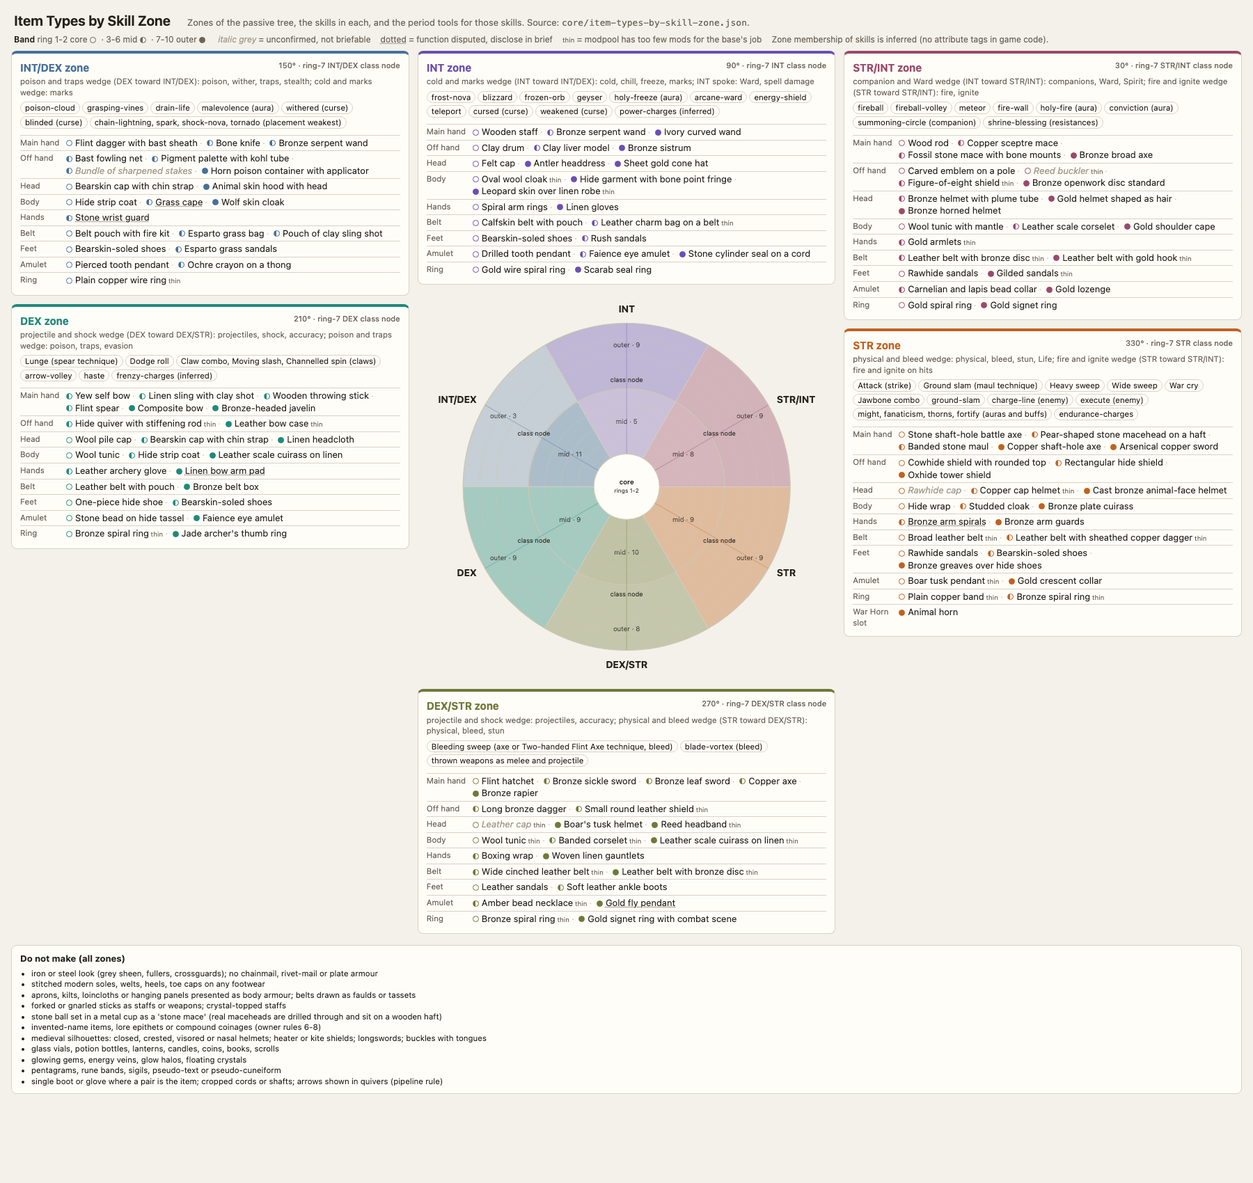
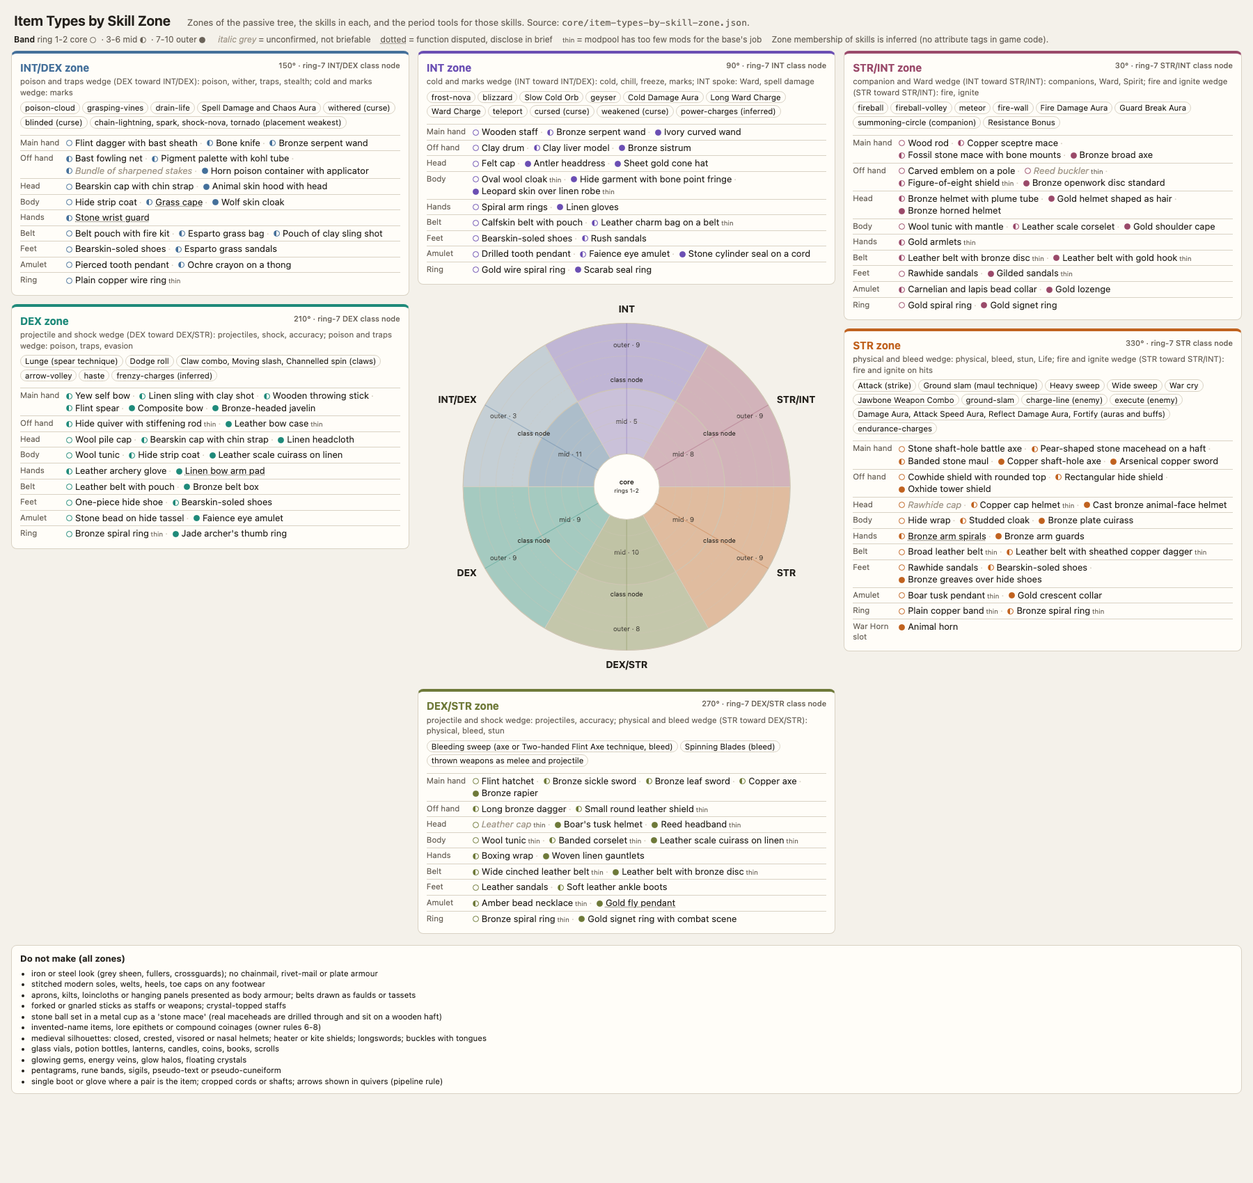
Plain names: functional aura and skill names; cite the horned helmet find
Dispatch review of 26d7c37. Display names by what the code does
(SpellRules): Might -> Damage Aura, Fanaticism -> Attack Speed Aura,
Conviction -> Guard Break Aura, Holy Fire/Freeze/Shock -> Fire/Cold/
Lightning Damage Aura, Wrath -> Spell Damage and Lightning Aura,
Malevolence -> Spell Damage and Chaos Aura, Thorns -> Reflect Damage
Aura, Shrine Blessing -> Resistance Bonus, Blade Vortex -> Spinning
Blades, Frozen Orb -> Slow Cold Orb, Energy Shield / Arcane Ward ->
Ward Charge / Long Ward Charge, Jawbone combo -> Jawbone Weapon Combo.
Recorded in rename-map.json as display-only (presets stay keys).

Bronze horned helmet kept with its cited find: Veksø helmets, Brøns
Mose, Zealand, c. 900 BC, National Museum of Denmark.

diff --git a/tools/rpg_inventory/core/build_item_types_by_skill_zone.py b/tools/rpg_inventory/core/build_item_types_by_skill_zone.py
@@ -79,8 +79,8 @@ ZONES = [
         "wedges": "cold and marks wedge (INT toward INT/DEX): cold, chill, freeze, marks; INT spoke: Ward, spell damage",
         "latticeRow": "damage type row (opened by the INT class)",
         "gameSkills": [
-            "frost-nova", "blizzard", "frozen-orb", "geyser", "holy-freeze (aura)", "arcane-ward",
-            "energy-shield", "teleport", "cursed (curse)", "weakened (curse)", "power-charges (inferred)",
+            "frost-nova", "blizzard", "Slow Cold Orb", "geyser", "Cold Damage Aura", "Long Ward Charge",
+            "Ward Charge", "teleport", "cursed (curse)", "weakened (curse)", "power-charges (inferred)",
         ],
         "archetypes": "spell bolt 95/4/1, nova, curse 90/8/2, channelled spells, teleport 73/27/0, ward",
         "role": "Ritual specialist who is also healer and diviner, not a battle-mage. Evidence: shaman burials (Hilazon Tachtit c. 10,000 BC; Bad Duerrenberg c. 7000 BC; Upton Lovell G2a c. 1800 BC), Mari liver models (18th c. BC), the Ramesseum magician's box (c. 1700 BC).",
@@ -127,7 +127,7 @@ ZONES = [
         "wedges": "poison and traps wedge (DEX toward INT/DEX): poison, wither, traps, stealth; cold and marks wedge: marks",
         "latticeRow": "effect row (opened by the INT/DEX class, a wand or a knife)",
         "gameSkills": [
-            "poison-cloud", "grasping-vines", "drain-life", "malevolence (aura)", "withered (curse)",
+            "poison-cloud", "grasping-vines", "drain-life", "Spell Damage and Chaos Aura", "withered (curse)",
             "blinded (curse)", "chain-lightning, spark, shock-nova, tornado (placement weakest)",
         ],
         "archetypes": "blink 64/34/2, mark 53/45/2, shadow clone 49/49/2, mine 45/52/3, trap 36/61/3, poison, stealth",
@@ -222,7 +222,7 @@ ZONES = [
         "wedges": "projectile and shock wedge: projectiles, accuracy; physical and bleed wedge (STR toward DEX/STR): physical, bleed, stun",
         "latticeRow": "intent row (opened by the DEX/STR class, a rod or an axe)",
         "gameSkills": [
-            "Bleeding sweep (axe or Two-handed Flint Axe technique, bleed)", "blade-vortex (bleed)", "thrown weapons as melee and projectile",
+            "Bleeding sweep (axe or Two-handed Flint Axe technique, bleed)", "Spinning Blades (bleed)", "thrown weapons as melee and projectile",
         ],
         "archetypes": "whirlwind 3/51/46, thrust 2/77/21, charge 2/25/73 (edge), strikes, parries, leaps, sweeps, combos",
         "role": "Fast close-combat fighter: the Aegean warrior with rapier and dagger (Mycenae Shaft Graves c. 1650-1500 BC), the Egyptian and Levantine sickle-sword soldier, the Sherden with round shield (Kadesh and Medinet Habu reliefs), Naue II sword users (c. 1300-1100 BC). Leaps: bull-leaping frescoes (Knossos, ritual not combat). Dual wielding as a technique is unconfirmed; sword and dagger were carried together.",
@@ -270,8 +270,8 @@ ZONES = [
         "latticeRow": "target row (opened by the STR class, a staff or any two-handed weapon)",
         "gameSkills": [
             "Attack (strike)", "Ground slam (maul technique)", "Heavy sweep", "Wide sweep", "War cry",
-            "Jawbone combo", "ground-slam", "charge-line (enemy)", "execute (enemy)",
-            "might, fanaticism, thorns, fortify (auras and buffs)", "endurance-charges",
+            "Jawbone Weapon Combo", "ground-slam", "charge-line (enemy)", "execute (enemy)",
+            "Damage Aura, Attack Speed Aura, Reflect Damage Aura, Fortify (auras and buffs)", "endurance-charges",
         ],
         "archetypes": "slam 3/11/86, warcry 18/6/76, charge 2/25/73, guard 24/7/69, heavy attacks, endurance",
         "role": "Close-order shield and spear line (Stele of the Vultures c. 2450 BC; Standard of Ur and the PG 789 guards c. 2600 BC), the shock fighter with mace or battle-axe (Narmer Palette c. 3100 BC; Corded Ware battle-axes c. 2900-2350 BC), and the Aegean heavy warrior with tower shield (Lion Hunt dagger c. 1600 BC; Dendra panoply c. 1400 BC).",
@@ -321,8 +321,8 @@ ZONES = [
         "wedges": "companion and Ward wedge (INT toward STR/INT): companions, Ward, Spirit; fire and ignite wedge (STR toward STR/INT): fire, ignite",
         "latticeRow": "damage type row (opened by the STR/INT class, a shield or a buckler)",
         "gameSkills": [
-            "fireball", "fireball-volley", "meteor", "fire-wall", "holy-fire (aura)", "conviction (aura)",
-            "summoning-circle (companion)", "shrine-blessing (resistances)",
+            "fireball", "fireball-volley", "meteor", "fire-wall", "Fire Damage Aura", "Guard Break Aura",
+            "summoning-circle (companion)", "Resistance Bonus",
         ],
         "archetypes": "totem 51/6/43, banner 27/15/58, aura 34/33/33, barrier, elemental slam, summoning (game puts companions here, not in INT)",
         "role": "War-leader with insignia and the ritual standard-bearer: Narmer Palette standard-bearers (c. 3100 BC), Nahal Mishmar copper standards and maceheads (c. 4000 BC), Alaca Hoeyuek bronze standards (c. 2500-2000 BC), Fu Hao's bronze yue axes (c. 1200 BC), Bush Barrow mace and gold lozenge (c. 1900 BC).",
@@ -337,7 +337,7 @@ ZONES = [
             ("off", "core", "Reed buckler", "barrier", "the game's Reed Buckler base (damage type row)", "woven reed on a frame", "small round shield", "game base; reed shields in taxonomy S-18 (check a find)", "U", "toy-like wicker look"),
             ("head", "outer", "Gold helmet shaped as hair", "auras, conviction", "leader's helmet", "hammered gold", "dome shaped as hair with a bun and ears", "Meskalamdug helmet, Ur, c. 2600 BC", "A", "crown with points"),
             ("head", "mid", "Bronze helmet with plume tube", "warcry with magic, ward", "helmet with a socket for a plume", "cast bronze", "rounded helmet with a small tube on top", "Anyang M1004", "A", "crest ridge"),
-            ("head", "outer", "Bronze horned helmet", "banner, aura", "ritual horned helmet, Late Bronze Age; kept because it is attested", "sheet bronze, horns", "dome with two curved horns", "Veksø helmets, Denmark, c. 900 BC (National Museum of Denmark; attested find); Sherden horned helmets on the Medinet Habu reliefs, c. 1175 BC (art)", "A", "fantasy horned helmet; any horned helmet outside STR/INT outer"),
+            ("head", "outer", "Bronze horned helmet", "banner, aura", "ceremonial horned helmet, Late Bronze Age; kept because the find is cited", "sheet bronze, bull horns, bird-of-prey face", "dome with two curved bull horns and a beaked face at the front", "Veksø helmets: two bronze helmets found 1942 in Brøns Mose bog near Veksø, Zealand; c. 900 BC (birch tar on a horn dated 2019); bog offerings, National Museum of Denmark (https://en.natmus.dk/historical-knowledge/denmark/prehistoric-period-until-1050-ad/the-bronze-age/the-viksoe-helmets/; https://en.wikipedia.org/wiki/Veks%C3%B8_Helmets)", "A", "fantasy horned helmet; any horned helmet outside STR/INT outer"),
             ("body", "outer", "Gold shoulder cape", "ward, auras", "ceremonial cape, not armour", "hammered sheet gold", "short cape over the shoulders with ribbed bands", "Mold cape, c. 1900-1600 BC", "A", "presenting it as armour"),
             ("body", "mid", "Leather scale corselet", "any", "protective body for the field leader", "rawhide scales on linen", "short scale cuirass", "Tutankhamun's cuirass", "Adapt", "chainmail"),
             ("body", "core", "Wool tunic with mantle", "any", "plain garment", "wool", "tunic with rectangular mantle", "Borum Eshoej, Muldbjerg", "A", "robe with sigils"),
@@ -384,7 +384,7 @@ EXISTING_BASES = [
 ]
 
 OWNER_DEFAULTS = [
-    "Horned helmet: kept only as the STR/INT outer 'Bronze horned helmet', because it is attested (Veksø helmets c. 900 BC; Sherden reliefs c. 1175 BC). STR and other zones ban fantasy (Viking-style) horned helmets.",
+    "Horned helmet: kept only as the STR/INT outer 'Bronze horned helmet', with its cited find: the Veksø helmets, Brøns Mose, Zealand, c. 900 BC, National Museum of Denmark. STR and other zones ban fantasy (Viking-style) horned helmets.",
     "Prefix/suffix: adopted. 2 prefixes + 2 suffixes inside the game's 4-mod limit, plus one implicit on weapon, off-hand and jewellery bases (none on body, head, hands, feet, belt). Needs a code change in Itemization.cs to take effect.",
     "Added Fire: limited to fire-themed bases (STR/INT and the fire and ignite wedge), as mapped. This changes live drops once implemented; today the game rolls it on every weapon.",
     "Mines: buried stake traps and laid sling shot are the period answer (Bundle of sharpened stakes, Pouch of clay sling shot). No fire pots.",

diff --git a/docs/ITEM-TYPES-BY-SKILL-ZONE.md b/docs/ITEM-TYPES-BY-SKILL-ZONE.md
@@ -11,7 +11,7 @@ A brief like "DEX/INT helmet" asks the image model to invent a look for a stat p
 
 Set 2026-11-07 from the Dispatch review. Each is a default the owner may veto; briefs and modpools follow them until then.
 
-- Horned helmet: kept only as the STR/INT outer 'Bronze horned helmet', because it is attested (Veksø helmets c. 900 BC; Sherden reliefs c. 1175 BC). STR and other zones ban fantasy (Viking-style) horned helmets.
+- Horned helmet: kept only as the STR/INT outer 'Bronze horned helmet', with its cited find: the Veksø helmets, Brøns Mose, Zealand, c. 900 BC, National Museum of Denmark. STR and other zones ban fantasy (Viking-style) horned helmets.
 - Prefix/suffix: adopted. 2 prefixes + 2 suffixes inside the game's 4-mod limit, plus one implicit on weapon, off-hand and jewellery bases (none on body, head, hands, feet, belt). Needs a code change in Itemization.cs to take effect.
 - Added Fire: limited to fire-themed bases (STR/INT and the fire and ignite wedge), as mapped. This changes live drops once implemented; today the game rolls it on every weapon.
 - Mines: buried stake traps and laid sling shot are the period answer (Bundle of sharpened stakes, Pouch of clay sling shot). No fire pots.
@@ -44,7 +44,7 @@ Confidence codes: **A** attested: real find of this form in the period; **Art** 
 ### INT (90 degrees)
 
 - **Tree:** ring-7 INT node: sets the INT class; unlocks a second curio, a spell focus socket and an extra focus slot. Wedges: cold and marks wedge (INT toward INT/DEX): cold, chill, freeze, marks; INT spoke: Ward, spell damage. Weaving: damage type row (opened by the INT class).
-- **Game skills here (inferred zone):** frost-nova, blizzard, frozen-orb, geyser, holy-freeze (aura), arcane-ward, energy-shield, teleport, cursed (curse), weakened (curse), power-charges (inferred).
+- **Game skills here (inferred zone):** frost-nova, blizzard, Slow Cold Orb, geyser, Cold Damage Aura, Long Ward Charge, Ward Charge, teleport, cursed (curse), weakened (curse), power-charges (inferred).
 - **Archetypes (chat INT/DEX/STR):** spell bolt 95/4/1, nova, curse 90/8/2, channelled spells, teleport 73/27/0, ward.
 - **Who does this in the period:** Ritual specialist who is also healer and diviner, not a battle-mage. Evidence: shaman burials (Hilazon Tachtit c. 10,000 BC; Bad Duerrenberg c. 7000 BC; Upton Lovell G2a c. 1800 BC), Mari liver models (18th c. BC), the Ramesseum magician's box (c. 1700 BC).
 - **Core kit:** Wooden staff, Clay drum, Felt cap, Oval wool cloak, Spiral arm rings, Calfskin belt with pouch, Bearskin-soled shoes, Drilled tooth pendant, Gold wire spiral ring.
@@ -60,7 +60,7 @@ Confidence codes: **A** attested: real find of this form in the period; **Art** 
 ### INT/DEX (150 degrees)
 
 - **Tree:** ring-7 INT/DEX node: sets the INT/DEX class; unlocks trap and mark tools, poison vials and a supply pack. Wedges: poison and traps wedge (DEX toward INT/DEX): poison, wither, traps, stealth; cold and marks wedge: marks. Weaving: effect row (opened by the INT/DEX class, a wand or a knife).
-- **Game skills here (inferred zone):** poison-cloud, grasping-vines, drain-life, malevolence (aura), withered (curse), blinded (curse), chain-lightning, spark, shock-nova, tornado (placement weakest).
+- **Game skills here (inferred zone):** poison-cloud, grasping-vines, drain-life, Spell Damage and Chaos Aura, withered (curse), blinded (curse), chain-lightning, spark, shock-nova, tornado (placement weakest).
 - **Archetypes (chat INT/DEX/STR):** blink 64/34/2, mark 53/45/2, shadow clone 49/49/2, mine 45/52/3, trap 36/61/3, poison, stealth.
 - **Who does this in the period:** Hunter-trapper and poisoner, and the night scout. Evidence: Oetzi's bast net and kit (c. 3300 BC); Egyptian clap-net fowling scenes; Border Cave and Kruger Cave poison applicators; boar's-tusk helmet of the scout. Blink, phase and shadow clone have no physical analogue; the nearest real kit is disguise (animal skins) and pigment for marks.
 - **Core kit:** Flint dagger with bast sheath, Bearskin cap with chin strap, Hide strip coat, Belt pouch with fire kit, Bearskin-soled shoes, Pierced tooth pendant, Plain copper wire ring.
@@ -92,7 +92,7 @@ Confidence codes: **A** attested: real find of this form in the period; **Art** 
 ### DEX/STR (270 degrees)
 
 - **Tree:** ring-7 DEX/STR node: sets the DEX/STR class; unlocks thrown weapons count as melee and projectile, a belt charm and an animal parts pack. Wedges: projectile and shock wedge: projectiles, accuracy; physical and bleed wedge (STR toward DEX/STR): physical, bleed, stun. Weaving: intent row (opened by the DEX/STR class, a rod or an axe).
-- **Game skills here (inferred zone):** Bleeding sweep (axe or Two-handed Flint Axe technique, bleed), blade-vortex (bleed), thrown weapons as melee and projectile.
+- **Game skills here (inferred zone):** Bleeding sweep (axe or Two-handed Flint Axe technique, bleed), Spinning Blades (bleed), thrown weapons as melee and projectile.
 - **Archetypes (chat INT/DEX/STR):** whirlwind 3/51/46, thrust 2/77/21, charge 2/25/73 (edge), strikes, parries, leaps, sweeps, combos.
 - **Who does this in the period:** Fast close-combat fighter: the Aegean warrior with rapier and dagger (Mycenae Shaft Graves c. 1650-1500 BC), the Egyptian and Levantine sickle-sword soldier, the Sherden with round shield (Kadesh and Medinet Habu reliefs), Naue II sword users (c. 1300-1100 BC). Leaps: bull-leaping frescoes (Knossos, ritual not combat). Dual wielding as a technique is unconfirmed; sword and dagger were carried together.
 - **Core kit:** Flint hatchet, Leather cap, Wool tunic, Leather sandals, Bronze spiral ring.
@@ -108,7 +108,7 @@ Confidence codes: **A** attested: real find of this form in the period; **Art** 
 ### STR (330 degrees)
 
 - **Tree:** ring-7 STR node: sets the STR class; unlocks tower shields and the War Horn slot. Wedges: physical and bleed wedge: physical, bleed, stun, Life; fire and ignite wedge (STR toward STR/INT): fire and ignite on hits. Weaving: target row (opened by the STR class, a staff or any two-handed weapon).
-- **Game skills here (inferred zone):** Attack (strike), Ground slam (maul technique), Heavy sweep, Wide sweep, War cry, Jawbone combo, ground-slam, charge-line (enemy), execute (enemy), might, fanaticism, thorns, fortify (auras and buffs), endurance-charges.
+- **Game skills here (inferred zone):** Attack (strike), Ground slam (maul technique), Heavy sweep, Wide sweep, War cry, Jawbone Weapon Combo, ground-slam, charge-line (enemy), execute (enemy), Damage Aura, Attack Speed Aura, Reflect Damage Aura, Fortify (auras and buffs), endurance-charges.
 - **Archetypes (chat INT/DEX/STR):** slam 3/11/86, warcry 18/6/76, charge 2/25/73, guard 24/7/69, heavy attacks, endurance.
 - **Who does this in the period:** Close-order shield and spear line (Stele of the Vultures c. 2450 BC; Standard of Ur and the PG 789 guards c. 2600 BC), the shock fighter with mace or battle-axe (Narmer Palette c. 3100 BC; Corded Ware battle-axes c. 2900-2350 BC), and the Aegean heavy warrior with tower shield (Lion Hunt dagger c. 1600 BC; Dendra panoply c. 1400 BC).
 - **Core kit:** Stone shaft-hole battle axe, Cowhide shield with rounded top, Rawhide cap, Hide wrap, Broad leather belt, Rawhide sandals, Boar tusk pendant, Plain copper band.
@@ -124,7 +124,7 @@ Confidence codes: **A** attested: real find of this form in the period; **Art** 
 ### STR/INT (30 degrees)
 
 - **Tree:** ring-7 STR/INT node: sets the STR/INT class; unlocks banners, a war companion and a relic pack. Wedges: companion and Ward wedge (INT toward STR/INT): companions, Ward, Spirit; fire and ignite wedge (STR toward STR/INT): fire, ignite. Weaving: damage type row (opened by the STR/INT class, a shield or a buckler).
-- **Game skills here (inferred zone):** fireball, fireball-volley, meteor, fire-wall, holy-fire (aura), conviction (aura), summoning-circle (companion), shrine-blessing (resistances).
+- **Game skills here (inferred zone):** fireball, fireball-volley, meteor, fire-wall, Fire Damage Aura, Guard Break Aura, summoning-circle (companion), Resistance Bonus.
 - **Archetypes (chat INT/DEX/STR):** totem 51/6/43, banner 27/15/58, aura 34/33/33, barrier, elemental slam, summoning (game puts companions here, not in INT).
 - **Who does this in the period:** War-leader with insignia and the ritual standard-bearer: Narmer Palette standard-bearers (c. 3100 BC), Nahal Mishmar copper standards and maceheads (c. 4000 BC), Alaca Hoeyuek bronze standards (c. 2500-2000 BC), Fu Hao's bronze yue axes (c. 1200 BC), Bush Barrow mace and gold lozenge (c. 1900 BC).
 - **Core kit:** Wood rod, Carved emblem on a pole, Reed buckler, Wool tunic with mantle, Rawhide sandals, Gold spiral ring.
@@ -215,7 +215,7 @@ Columns: item (plain name), zone and band, skills served and why, materials, sil
 | Rawhide cap | STR / core | any: hardened cap | rawhide | close round cap | rawhide skullcap (taxonomy H-03); check a specific find | U | closed helmet |
 | Gold helmet shaped as hair | STR/INT / outer | auras, conviction: leader's helmet | hammered gold | dome shaped as hair with a bun and ears | Meskalamdug helmet, Ur, c. 2600 BC | A | crown with points |
 | Bronze helmet with plume tube | STR/INT / mid | warcry with magic, ward: helmet with a socket for a plume | cast bronze | rounded helmet with a small tube on top | Anyang M1004 | A | crest ridge |
-| Bronze horned helmet | STR/INT / outer | banner, aura: ritual horned helmet, Late Bronze Age; kept because it is attested | sheet bronze, horns | dome with two curved horns | Veksø helmets, Denmark, c. 900 BC (National Museum of Denmark; attested find); Sherden horned helmets on the Medinet Habu reliefs, c. 1175 BC (art) | A | fantasy horned helmet; any horned helmet outside STR/INT outer |
+| Bronze horned helmet | STR/INT / outer | banner, aura: ceremonial horned helmet, Late Bronze Age; kept because the find is cited | sheet bronze, bull horns, bird-of-prey face | dome with two curved bull horns and a beaked face at the front | Veksø helmets: two bronze helmets found 1942 in Brøns Mose bog near Veksø, Zealand; c. 900 BC (birch tar on a horn dated 2019); bog offerings, National Museum of Denmark (https://en.natmus.dk/historical-knowledge/denmark/prehistoric-period-until-1050-ad/the-bronze-age/the-viksoe-helmets/; https://en.wikipedia.org/wiki/Veks%C3%B8_Helmets) | A | fantasy horned helmet; any horned helmet outside STR/INT outer |
 
 ### Body
 

diff --git a/owner-rules/RENAME-MAP.md b/owner-rules/RENAME-MAP.md
@@ -1,7 +1,7 @@
 # Rename map (2026-11-07)
 
 Generated from `rename-map.json` (the source; edit that, then rerun `node owner-rules/apply-rename-map.mjs`).
-Display strings change; ids, keys, unlock flags, stat ids, seat ids and saved-data values keep their old spelling. The lint (`lint.mjs`) fails on any `before` in game text, data and current docs.
+Display strings change; ids, keys, unlock flags, stat ids, seat ids, spell presets and saved-data values keep their old spelling. The lint (`lint.mjs`) fails on any `before` in game text, data and current docs, except entries marked display-only (spell presets that are still keys).
 
 | Category | Before | After | Note |
 |---|---|---|---|
@@ -214,6 +214,21 @@ Display strings change; ids, keys, unlock flags, stat ids, seat ids and saved-da
 | item pipeline | Slaughter | Kill Bonuses | prose form (exact string values use the entry above) |
 | item pipeline | Warding | Block and Ward | prose form (exact string values use the entry above) |
 | item pipeline | Wayfaring | Movement | prose form (exact string values use the entry above) |
+| spell or skill name | Might | Damage Aura | +20% attack and spell damage. Display only (SpellRules.DisplayName / ActionPresentation); the preset and id keep the old spelling as keys for VFX, aura gameplay and saves (exact value) (scope: display) |
+| spell or skill name | Fanaticism | Attack Speed Aura | +20% attack speed. Display only (SpellRules.DisplayName / ActionPresentation); the preset and id keep the old spelling as keys for VFX, aura gameplay and saves (exact value) (scope: display) |
+| spell or skill name | Conviction | Guard Break Aura | nearby enemies lose 25% Guard. Display only (SpellRules.DisplayName / ActionPresentation); the preset and id keep the old spelling as keys for VFX, aura gameplay and saves (exact value) (scope: display) |
+| spell or skill name | Holy Fire | Fire Damage Aura | fire damage pulses. Display only (SpellRules.DisplayName / ActionPresentation); the preset and id keep the old spelling as keys for VFX, aura gameplay and saves (exact value) (scope: display) |
+| spell or skill name | Holy Freeze | Cold Damage Aura | cold damage pulses. Display only (SpellRules.DisplayName / ActionPresentation); the preset and id keep the old spelling as keys for VFX, aura gameplay and saves (exact value) (scope: display) |
+| spell or skill name | Holy Shock | Lightning Damage Aura | lightning damage pulses. Display only (SpellRules.DisplayName / ActionPresentation); the preset and id keep the old spelling as keys for VFX, aura gameplay and saves (exact value) (scope: display) |
+| spell or skill name | Wrath | Spell Damage and Lightning Aura | +20% spell damage and lightning pulses. Display only (SpellRules.DisplayName / ActionPresentation); the preset and id keep the old spelling as keys for VFX, aura gameplay and saves (exact value) (scope: display) |
+| spell or skill name | Malevolence | Spell Damage and Chaos Aura | +15% spell damage and chaos pulses. Display only (SpellRules.DisplayName / ActionPresentation); the preset and id keep the old spelling as keys for VFX, aura gameplay and saves (exact value) (scope: display) |
+| spell or skill name | Thorns | Reflect Damage Aura | reflects 20% of damage taken. Display only (SpellRules.DisplayName / ActionPresentation); the preset and id keep the old spelling as keys for VFX, aura gameplay and saves (exact value) (scope: display) |
+| spell or skill name | Shrine Blessing | Resistance Bonus | +15% to all four resistances; old display 'Blessing'. Display only (SpellRules.DisplayName / ActionPresentation); the preset and id keep the old spelling as keys for VFX, aura gameplay and saves (exact value) (scope: display) |
+| spell or skill name | Blade Vortex | Spinning Blades | physical area hazard that leaves Bleeding. Display only (SpellRules.DisplayName / ActionPresentation); the preset and id keep the old spelling as keys for VFX, aura gameplay and saves (exact value) (scope: display) |
+| spell or skill name | Frozen Orb | Slow Cold Orb | slow cold projectile that Chills. Display only (SpellRules.DisplayName / ActionPresentation); the preset and id keep the old spelling as keys for VFX, aura gameplay and saves (exact value) (scope: display) |
+| spell or skill name | Energy Shield | Ward Charge | +1 Ward charge. Display only (SpellRules.DisplayName / ActionPresentation); the preset and id keep the old spelling as keys for VFX, aura gameplay and saves (exact value) (scope: display) |
+| spell or skill name | Arcane Ward | Long Ward Charge | +1 Ward charge, longer. Display only (SpellRules.DisplayName / ActionPresentation); the preset and id keep the old spelling as keys for VFX, aura gameplay and saves (exact value) (scope: display) |
+| spell or skill name | Jawbone combo | Jawbone Weapon Combo | three-hit jawbone weapon chain. Display only (SpellRules.DisplayName / ActionPresentation); the preset and id keep the old spelling as keys for VFX, aura gameplay and saves (exact value) (scope: display) |
 
 ## Found but not renamed
 
